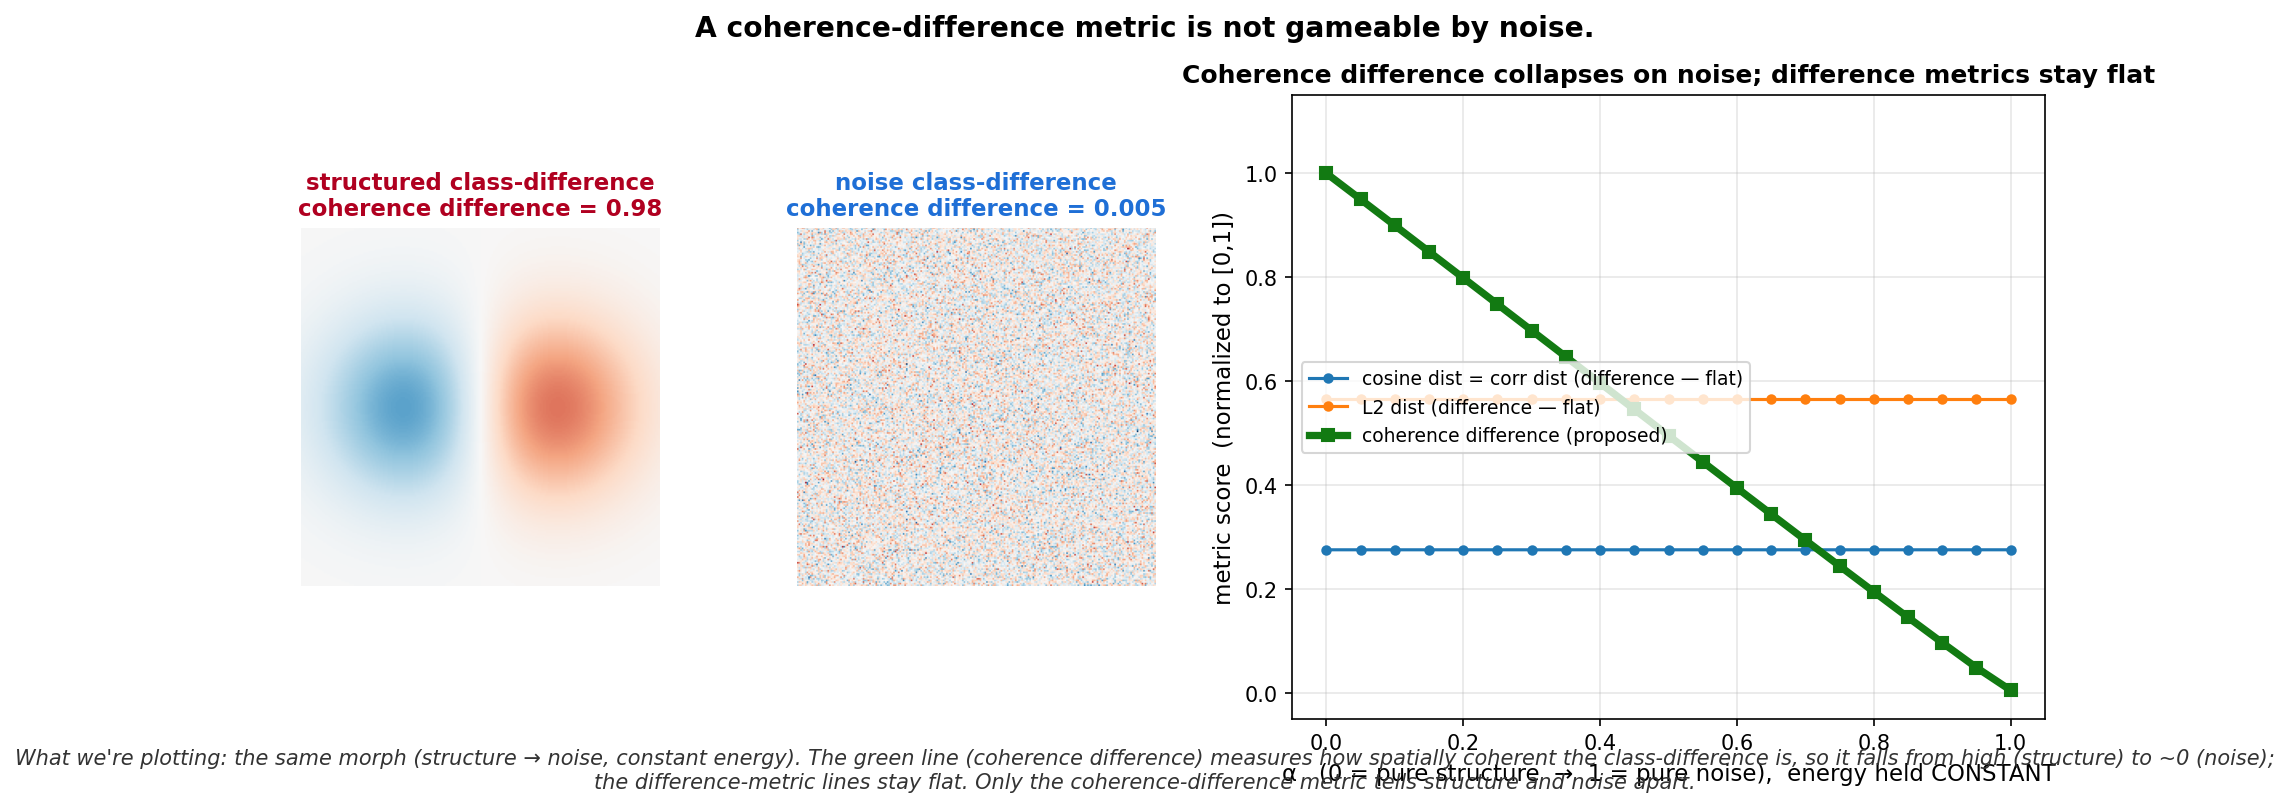
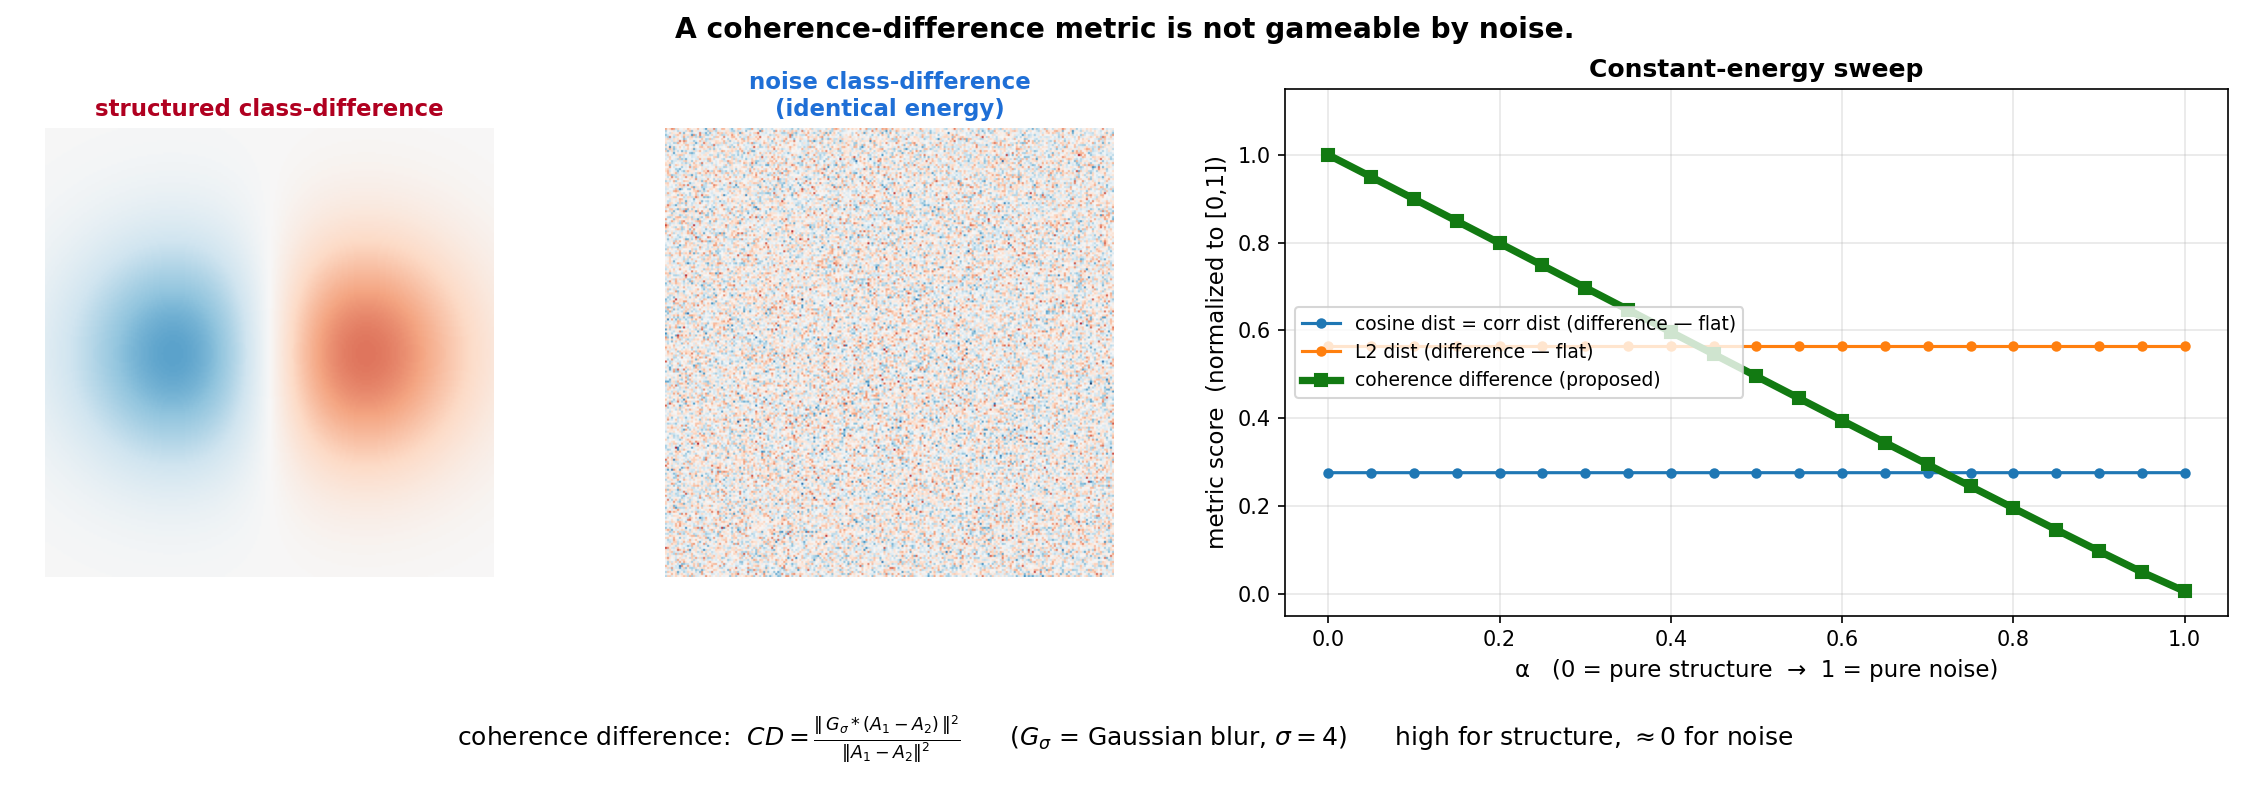
Polish gameability/payoff figures
Formula as clean subcaption (explicit bottom margin, no overlap with x-axis);
short "Constant-energy sweep" panel title; drop coherence-diff values from
map titles.

diff --git a/infocube-main/diff_metric_blindness.py b/infocube-main/diff_metric_blindness.py
@@ -98,7 +98,7 @@ plot_diff(axs)
 axs.axhline(1.0, color='k', ls='--', lw=1.8, label='independent random-pair baseline')
 axs.set_xlabel('α   (0 = pure structure  →  1 = pure noise)', fontsize=11)
 axs.set_ylabel('difference score / random-pair baseline', fontsize=11); axs.set_ylim(0, 1.15)
-axs.set_title('Every difference metric is FLAT across the coherence sweep', fontsize=12, fontweight='bold')
+axs.set_title('Constant-energy sweep', fontsize=12, fontweight='bold')
 axs.grid(alpha=0.3); axs.legend(fontsize=9, loc='center right')
 axs.text(0.03, 0.06,
          'ENERGY (magnitude) held CONSTANT along the sweep.\nThe only variable is spatial coherence.\n'
@@ -106,13 +106,12 @@ axs.text(0.03, 0.06,
          transform=axs.transAxes, va='bottom', ha='left', fontsize=9,
          bbox=dict(boxstyle='round', fc='#fff6e0', ec='#d9a441'))
 plt.suptitle('Difference-based class sensitivity is gameable by noise.', fontsize=13.5, fontweight='bold')
-fig.text(0.5, 0.02,
-         "What we're plotting: the class-difference map is morphed from a clean structured pattern (α=0) to pure noise (α=1) "
-         "with total magnitude (energy) held constant;\neach line is one difference metric's score along that morph "
-         "(÷ its two-unrelated-maps value). The lines stay flat → the metric scores noise exactly like structure.",
-         ha='center', va='bottom', fontsize=10, style='italic', color='#333')
-plt.tight_layout(rect=[0,0.085,1,0.94]); out='cs_viz_outputs/diff_metric_blindness.png'
-plt.savefig(out, dpi=150, bbox_inches='tight'); plt.close()
+fig.text(0.5, 0.055, r"difference metric (cosine):  $D=1-\frac{\langle A_1,\,A_2\rangle}{\|A_1\|\,\|A_2\|}$"
+         r"       energy $\|A_1-A_2\|$ held constant across the sweep",
+         ha='center', va='bottom', fontsize=12)
+fig.subplots_adjust(left=0.02, right=0.99, top=0.89, bottom=0.24, wspace=0.28)
+out='cs_viz_outputs/diff_metric_blindness.png'
+plt.savefig(out, dpi=150); plt.close()
 flat = max(abs(np.array(v)[-1]-np.array(v)[0])/(rp[k]+EPS) for k,v in curves.items())
 print(f'sweep: difference metrics drift <= {100*flat:.1f}% of the random-pair scale, structure->noise')
 print(f'(console-only: coherence falls {100*(1-coh_curve[-1]/coh_curve[0]):.0f}% over the same sweep)')
@@ -127,24 +126,22 @@ cd_coh, cd_noise = coherence(d_coh), coherence(d_noise)
 fig2 = plt.figure(figsize=(15, 5.4), facecolor='white')
 gs2 = fig2.add_gridspec(1, 3, width_ratios=[1, 1, 2.1], wspace=0.28)
 axc2 = fig2.add_subplot(gs2[0]); axc2.imshow(d_coh, cmap='RdBu_r', vmin=-vmax, vmax=vmax); axc2.axis('off')
-axc2.set_title(f'structured class-difference\ncoherence difference = {cd_coh:.2f}', fontsize=11, fontweight='bold', color='#b00020')
+axc2.set_title('structured class-difference', fontsize=11, fontweight='bold', color='#b00020')
 axn2 = fig2.add_subplot(gs2[1]); axn2.imshow(d_noise, cmap='RdBu_r', vmin=-vmax, vmax=vmax); axn2.axis('off')
-axn2.set_title(f'noise class-difference\ncoherence difference = {cd_noise:.3f}', fontsize=11, fontweight='bold', color='#1f6fd6')
+axn2.set_title('noise class-difference\n(identical energy)', fontsize=11, fontweight='bold', color='#1f6fd6')
 axs2 = fig2.add_subplot(gs2[2])
 plot_diff(axs2, suffix=' (difference — flat)')                                  # merges coincident cosine/corr
 axs2.plot(alphas, coh_curve/(coh_curve[0]+EPS), '-s', color='#127a12', lw=3.5, ms=6, label='coherence difference (proposed)')
-axs2.set_xlabel('α   (0 = pure structure  →  1 = pure noise),  energy held CONSTANT', fontsize=11)
+axs2.set_xlabel('α   (0 = pure structure  →  1 = pure noise)', fontsize=11)
 axs2.set_ylabel('metric score  (normalized to [0,1])', fontsize=11); axs2.set_ylim(-0.05, 1.15)
-axs2.set_title('Coherence difference collapses on noise; difference metrics stay flat', fontsize=12, fontweight='bold')
+axs2.set_title('Constant-energy sweep', fontsize=12, fontweight='bold')
 axs2.grid(alpha=0.3); axs2.legend(fontsize=9, loc='center left')
 fig2.suptitle('A coherence-difference metric is not gameable by noise.', fontsize=13.5, fontweight='bold')
-fig2.text(0.5, 0.02,
-          "What we're plotting: the same morph (structure → noise, constant energy). "
-          "The green line (coherence difference) measures how spatially coherent the class-difference is, so it falls "
-          "from high (structure) to ~0 (noise);\nthe difference-metric lines stay flat. "
-          "Only the coherence-difference metric tells structure and noise apart.",
-          ha='center', va='bottom', fontsize=10, style='italic', color='#333')
-plt.tight_layout(rect=[0,0.085,1,0.94]); out2='cs_viz_outputs/coherence_difference_payoff.png'
-plt.savefig(out2, dpi=150, bbox_inches='tight'); plt.close()
+fig2.text(0.5, 0.055, r"coherence difference:  $CD=\frac{\|\,G_\sigma * (A_1-A_2)\,\|^{2}}{\|A_1-A_2\|^{2}}$"
+          r"      ($G_\sigma$ = Gaussian blur, $\sigma=4$)      high for structure, $\approx 0$ for noise",
+          ha='center', va='bottom', fontsize=12)
+fig2.subplots_adjust(left=0.02, right=0.99, top=0.89, bottom=0.24, wspace=0.28)
+out2='cs_viz_outputs/coherence_difference_payoff.png'
+plt.savefig(out2, dpi=150); plt.close()
 print(f'coherence difference: structured={cd_coh:.3f}  noise={cd_noise:.3f}  (difference metrics saw them as identical)')
 print('saved', out2)
